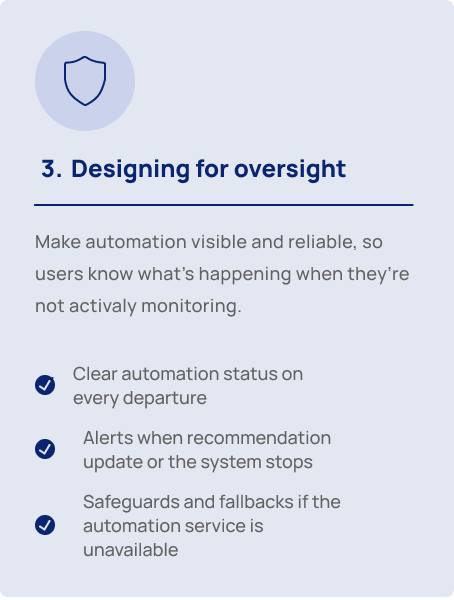
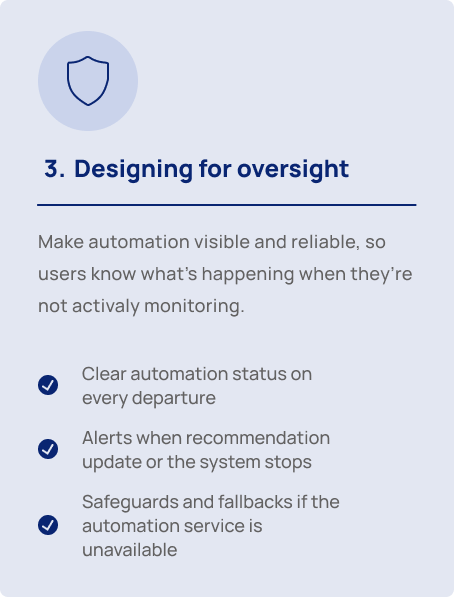
Fixed errors in graphics, updated outcomes text

diff --git a/src/pages/Overbooking.jsx b/src/pages/Overbooking.jsx
@@ -33,7 +33,10 @@ const Overbooking = () => {
                     <ProjectTopSection
                         title="Summary"
                         description={[
-                            "I helped design an automated overbooking capability for a revenue management platform used by freight optimizers.\n\nThe goal was to move away from static overbooking limits and allow the system to continuously adjust recommendations based on changing booking conditions. While the optimization model itself was developed by data scientists, a significant part of the design challenge was helping experienced users understand, monitor, and feel comfortable relying on automated decisions that could directly affect revenue and operations."]}
+                            "I helped design an automated overbooking capability for a revenue management platform used by freight optimisers. The goal was to automatically adjust booking recommendations based on changing demand conditions and improve revenue opportunities.",
+                            "The challenge was not the model itself. Although the recommendations were mathematically sound, adoption remained cautious because users were ultimately responsible for the consequences of acting on them. A recommendation could be technically correct and still feel risky.",
+                            "My role focused on understanding how users evaluated these recommendations and designing an experience that balanced automation, transparency, and control to support long-term trust and adoption."
+                        ]}
                         info={{
                             client: "Stena Line",
                             role: "UX Designer",
@@ -100,15 +103,11 @@ const Overbooking = () => {
 
                     <SectionTitleAboveContent title="Outcomes">
                         <p>The feature became one of the platform's core automation capabilities and was rolled out across freight regions.</p>
-                        <p>Adoption was gradual, reflecting the operational importance of the decisions involved. Over time, users became increasingly comfortable relying on automated recommendations while still retaining the ability to intervene when needed.</p>
-                        <p>While some regions embraced the model quickly, others continued managing departures manually, highlighting how adoption varied depending on local conditions and confidence in the system.</p>
-                        <h3>What happened over time</h3>
-                        <p>Because the decisions involved real operational risk, adoption was gradual rather than immediate.
-
-                            In the years following launch, users continued to rely on manual interventions and overrides, particularly in situations they perceived as high risk. Over time, however, intervention rates decreased as users became more familiar with the model and observed its recommendations performing as expected.
-                        </p>
+                        <p>Because the decisions involved real operational risk, adoption was gradual rather than immediate. Rather than forcing users into a fully automated workflow, the design deliberately preserved opportunities to monitor, adjust, and override recommendations when needed.</p>
+                        <p>These mechanisms proved important during rollout. Historical comparisons, visibility into model behaviour, and the ability to intervene gave users ways to evaluate recommendations for themselves rather than treating the system as a black box.</p>
+                        <p>Over time, users became increasingly comfortable relying on automated recommendations while still retaining the ability to step in when necessary. Intervention rates gradually decreased as users gained confidence in both the model and the surrounding controls designed to support it.</p>
+                        <p>While some regions embraced the model quickly, others continued managing departures manually, highlighting how adoption depended not only on model performance but also on local conditions, operational practices, and confidence in the system.</p>
                         <p>Looking back after more than three years in production, adoption has continued to grow across regions while manual overrides have become less frequent.</p>
-
                     </SectionTitleAboveContent>
 
                     <div className="section-with-background">

diff --git a/src/pages/ProjectSection.tsx b/src/pages/ProjectSection.tsx
@@ -20,6 +20,18 @@ const projects: ProjectCardProps[] = [
       "Automation UX"
     ],
     link: "projects/automatic-overbooking"
+  },{
+    title: "Master thesis",
+    description:
+      "Designing information systems for high-pressure coordination environments",
+    image: masterTheisCardImage,
+    stack: [
+      "UX Research",
+      "Systems Thinking",
+      "Interaction Design",
+      "Information Architecture"
+    ],
+    link: "projects/masterthesis",
   }, {
     title: "PausePal",
     description: "Exploring how product design can support lasting behaviour change",
@@ -32,19 +44,7 @@ const projects: ProjectCardProps[] = [
     ],
     link: "projects/pausepal",
   },
-  {
-    title: "Master thesis",
-    description:
-      "Designing information systems for high-pressure coordination environments",
-    image: masterTheisCardImage,
-    stack: [
-      "UX Research",
-      "Systems Thinking",
-      "Interaction Design",
-      "Information Architecture"
-    ],
-    link: "projects/masterthesis",
-  },
+  
 ];
 
 const ProjectSection = () => {

diff --git a/src/components/ProjectPage/ProjectTopSection.jsx b/src/components/ProjectPage/ProjectTopSection.jsx
@@ -9,7 +9,10 @@ const ProjectTopSection = ({ title, description, info }) => (
       <h2 className="project-title">{title}</h2>
       <div className="project-desc-row">
         <div className="project-description">
-          <p>{description}</p>
+          {Array.isArray(description) 
+            ? description.map((para, i) => <p key={i}>{para}</p>)
+            : <p>{description}</p>
+          }
         </div>
         <div className="project-top-section-right">
           <div className="project-info-list">
